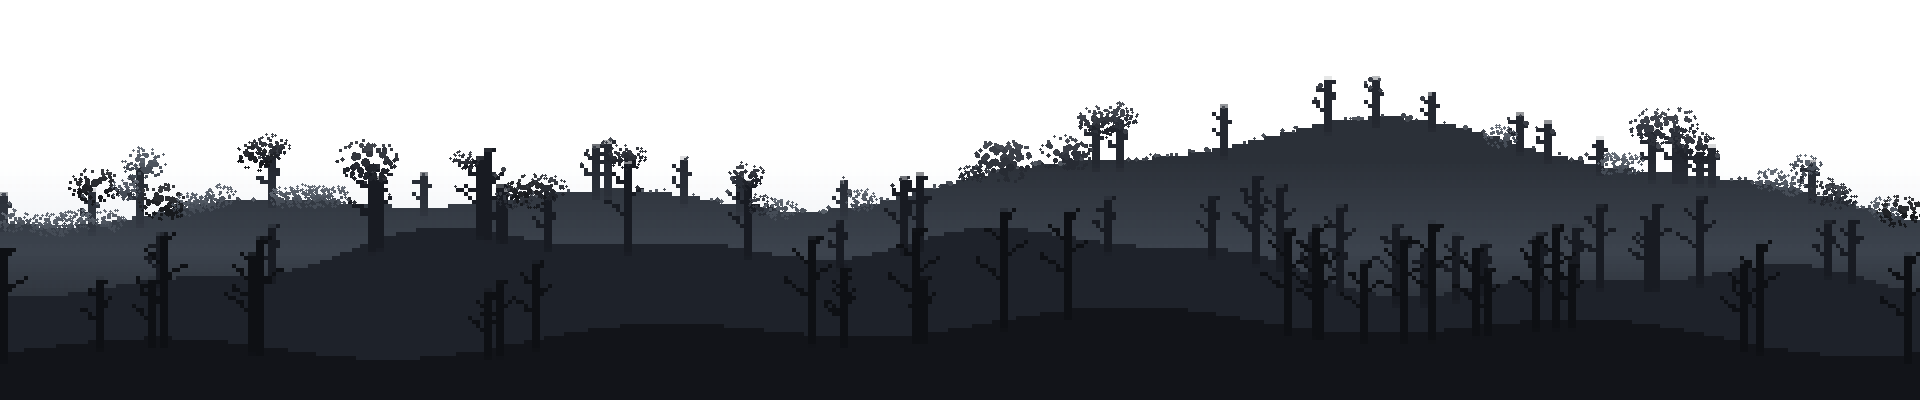
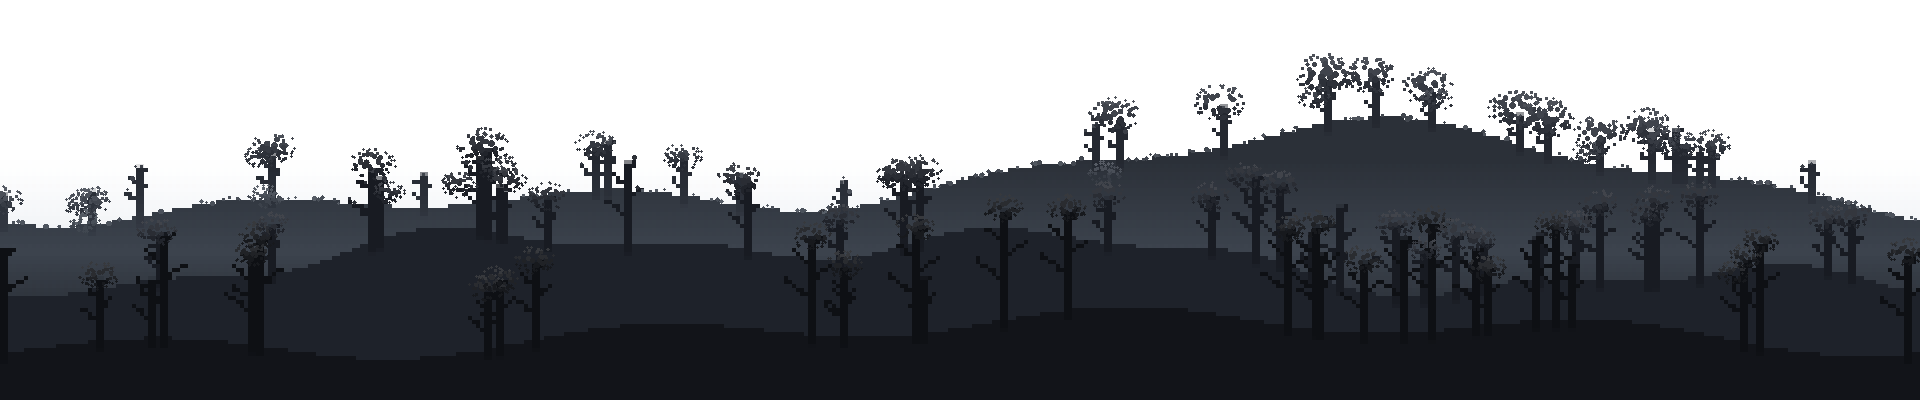
원경 숲: 앞 층 굵은 줄기에도 갓을 얹는다
지난 판(bebdcae)은 열마다 '맨 위 불투명 픽셀' 하나만 봐서, 가까운 줄기
앞을 먼 언덕이 가리는 자리에서 먼 언덕 꼭대기를 집었다. 갓이 줄기에서
떨어져 공중에 뜨고, 화면 아래 절반의 굵은 앞 층 나무는 통째로 맨 장대로
남았다 — 고치기 전보다 나빠졌다.

층은 색으로 갈린다. 원경은 층마다 제 회색을 쓰므로 색을 물으면 짐작할
것이 없다. 두 잣대로 줄기 색을 고른다:
  가로 런 중앙값 <= 18   언덕(24~40px)과 줄기(4~16px)를 가른다
  세로 런 최대 >= 20     언덕의 그라데이션 띠(4~12px)와 줄기(52~116px)

그리고 색마다 따로 훑는다. 한 열을 한 번만 보면 앞 층 줄기 위로 뒤 층
잔가지가 걸친 자리에서 뒤 것을 집어, 가장 어두운 앞 층(14,16,20)이 한
그루도 안 잡힌다. 먼 층 줄기는 세로 그라데이션이라 한 색이 4~8px 밖에
안 이어지므로, 거기는 종전대로 '열의 첫 줄기 색' 을 쓴다(먼 층 앞에는
가릴 것이 없어 그것으로 맞는다). 둘을 합치고 x 10px · 높이 12px 안쪽만
한 그루로 묶는다 — 높이를 안 보면 앞 줄기가 뒤 줄기에 흡수된다.

85그루 · 갓 위로 줄기가 솟는 것 0 · 갓이 줄기에 안 닿는 것 0
꼭대기 y 80~280 으로 세 층에 고루 퍼진다(전에는 앞 층이 0그루였다).

find_trees 주석에 실패한 다섯 가지를 남겨 둔다.

Claude-Session: https://claude.ai/code/session_015bTXkb4q3SzK7wZ8JdbtYP

diff --git a/game/index.html b/game/index.html
@@ -4,7 +4,7 @@
 <meta charset="utf-8">
 <meta name="viewport" content="width=device-width,initial-scale=1">
 <title>Ashfall Chronicles — 별이 잠든 땅</title>
-<link rel="stylesheet" href="css/style.css?v=196">
+<link rel="stylesheet" href="css/style.css?v=197">
 </head>
 <body>
 
@@ -448,19 +448,19 @@
   </div>
 </div>
 
-<script src="js/util.js?v=196"></script>
-<script src="js/data.js?v=196"></script>
-<script src="js/world.js?v=196"></script>
-<script src="js/tileart.js?v=196"></script>
-<script src="js/itemart.js?v=196"></script>
-<script src="js/titlebg.js?v=196"></script>
+<script src="js/util.js?v=197"></script>
+<script src="js/data.js?v=197"></script>
+<script src="js/world.js?v=197"></script>
+<script src="js/tileart.js?v=197"></script>
+<script src="js/itemart.js?v=197"></script>
+<script src="js/titlebg.js?v=197"></script>
 <!-- 매니페스트는 sprites.js 보다 먼저. file:// 에서 fetch 가 막히므로 <script> 로 넣는다 -->
-<script src="assets/sprites-manifest.js?v=196"></script>
-<script src="assets/sprites.js?v=196"></script>
-<script src="js/entity.js?v=196"></script>
-<script src="js/factory.js?v=196"></script>
-<script src="js/ui.js?v=196"></script>
-<script src="js/music.js?v=196"></script>
-<script src="js/game.js?v=196"></script>
+<script src="assets/sprites-manifest.js?v=197"></script>
+<script src="assets/sprites.js?v=197"></script>
+<script src="js/entity.js?v=197"></script>
+<script src="js/factory.js?v=197"></script>
+<script src="js/ui.js?v=197"></script>
+<script src="js/music.js?v=197"></script>
+<script src="js/game.js?v=197"></script>
 </body>
 </html>

diff --git a/tools/mkforestbg.py b/tools/mkforestbg.py
@@ -60,71 +60,145 @@ def lift(c, n):
     return tuple(max(0, min(255, v + n)) for v in c[:3])
 
 
-def find_trees(px, W, H):
-    """원본에서 줄기를 찾아 (가운데 x, 꼭대기 y, 폭, 색) 로 돌려준다.
+def trunk_colors(px, W, H):
+    """줄기 색을 골라낸다 — **가로 런 길이**로 가른다.
 
-    **좁고 긴 세로 획**을 찾는다. 하늘선을 기준으로 삼으면 가까운 층의 나무를
-    통째로 놓친다 — 그 나무들은 뒤의 언덕을 배경으로 서 있어서 하늘선을 안
-    건드리기 때문이다(처음에 그렇게 했다가 먼 나무에만 잎이 달렸다).
-
-    판정: 그 칸이 불투명하고, 15px 아래도 같은 색이며(길다), 좌우 11px 은
-    다른 색이다(좁다). 이 셋을 만족하는 가장 위 칸이 그 줄기의 꼭대기다."""
-    def rgb(x, y):
-        p = px[x, y]
-        return p[:3] if p[3] == 255 else None
-
-    GAP, LONG = 11, 10
-    tops = {}
-    for x in range(GAP, W - GAP):
-        for y in range(0, H - LONG):
-            c = rgb(x, y)
-            if c is None:
+    원경은 층마다 제 회색을 쓴다. 언덕은 가로로 길게 칠해져 있고(런 중앙값
+    24~40px) 줄기는 좁다(4~16px). 이 하나로 둘이 깨끗이 갈린다."""
+    from collections import defaultdict
+    runs, cnt = defaultdict(list), defaultdict(int)
+    for y in range(H):
+        x = 0
+        while x < W:
+            p = px[x, y]
+            if p[3] != 255:
+                x += 1
                 continue
-            if rgb(x, y + LONG) != c:            # 길지 않다 — 잔가지나 언덕
-                continue
-            if rgb(x - GAP, y) == c or rgb(x + GAP, y) == c:
-                continue                          # 넓다 — 언덕이다
-            tops[x] = (y, c)
-            break
-
-    runs = []
-    for x in sorted(tops):
-        if runs and x - runs[-1][-1] <= 4:
-            runs[-1].append(x)
-        else:
-            runs.append([x])
-    def ink_top(x):
-        """그 열에서 **눈에 보일 만큼 칠해진 가장 위 칸.**
-
-        갓을 얹을 자리는 여기다. 위의 판정이 내놓는 y 를 그대로 쓰면 안 된다 —
-        실측하니 53그루 중 42그루가 줄기 중턱(16~76px 아래)에 걸렸고, 거기에
-        갓을 얹으니 **갓 위로 맨 줄기가 삐죽 솟아** 있었다.
-
-        색으로 줄기를 따라 올라가는 것도 안 된다. 원본은 먼 줄기를 **세로
-        그라데이션**으로 그려서(위로 갈수록 밝다: 36,40,48 → 38,42,50 → …)
-        같은 색이 4~8px 밖에 안 이어지고, 게다가 꼭대기 20~50px 은 알파가
-        1~24 로 깔려 있다. 색을 맞추는 어떤 방법도 몇 칸 못 가서 끊긴다.
-        '칠해졌나'만 보는 쪽이 그림이 어떻게 그려졌든 흔들리지 않는다."""
-        for y in range(H):
-            if px[x, y][3] >= 60:
-                return y
-        return H
-
-    trees = []
-    for r in runs:
-        if len(r) > 26:                           # 이만큼 넓으면 나무가 아니다
+            c, x0 = p[:3], x
+            while x < W and px[x, y][3] == 255 and px[x, y][:3] == c:
+                x += 1
+            runs[c].append(x - x0)
+            cnt[c] += x - x0
+    out = []
+    for c, n in cnt.items():
+        if n < 1500:
             continue
-        ty = min(ink_top(x) for x in r)
-        cx = sum(r) // len(r)
-        # 색은 줄기에서 가장 흔한 것으로. 한 점만 찍으면 반투명 가장자리
-        # (RGB 에 아무 값이나 들어 있다)를 집어 갓이 흰색으로 튄다
-        seen = {}
-        for x in r:
-            c = tops[x][1]
-            seen[c] = seen.get(c, 0) + 1
-        col = max(seen, key=seen.get)
-        trees.append((cx, ty, len(r), col))
-    return trees
+        r = sorted(runs[c])
+        if r[len(r) // 2] <= 18:
+            out.append(c)
+    return set(out)
+
+
+def vrun_max(px, W, H, c):
+    """그 색이 세로로 가장 길게 이어지는 길이. 층을 가르는 두 번째 잣대다.
+
+    가로 런으로 언덕을 걸러도 언덕의 **그라데이션 띠** 색들이 남는다(가로로도
+    짧게 끊겨 칠해져 있다). 그것들은 세로로 4~12px 밖에 안 가고, 굵은 줄기는
+    52~116px 를 간다 — 사이가 텅 비어 있어 20 이면 깨끗이 갈린다."""
+    best = 0
+    for x in range(W):
+        y = 0
+        while y < H:
+            if px[x, y][3] == 255 and px[x, y][:3] == c:
+                n = 0
+                while y + n < H and px[x, y + n][3] == 255 and px[x, y + n][:3] == c:
+                    n += 1
+                if n > best:
+                    best = n
+                y += n
+            else:
+                y += 1
+    return best
+
+
+def find_trees(px, W, H):
+    """줄기를 찾아 (가운데 x, 꼭대기 y, 폭, 색) 로 돌려준다.
+
+    판정은 하나뿐이다 — **그 색이 그 열에서 처음 나타나는 칸.**
+    줄기 색은 제 층만 쓰므로, 뒤에 무엇이 그려져 있든 헷갈릴 수 없다.
+    그래서 색마다 따로 훑는다. 한 열에서 '줄기 색 아무거나 첫 칸' 을 집으면
+    안 된다 — 앞 층 줄기 위로 뒤 층 잔가지가 걸친 자리에서 뒤 것을 집어,
+    앞 층 큰 나무 전체가 통째로 빠진다(아래 5번).
+
+    ─ 여기까지 오는 데 다섯 번 틀렸다. 남겨 둔다, 같은 데 또 빠지지 않게:
+      1. 넓은 창의 **최댓값**을 언덕선으로 삼음 → 언덕 봉우리 전체가 '솟은 것'
+         으로 걸려 폭 80px 짜리 갓이 능선에 얹혔다.
+      2. **중앙값**으로 고침 → 하늘선을 안 건드리는 가까운 층 나무를 통째로
+         놓쳤다(그 나무들은 뒤 언덕을 배경으로 서 있다).
+      3. **좁고 긴 세로 획** 판정 → 언덕 가장자리를 줄기로 오인해서 ty 가 거의
+         전부 244 로 같았고, 갓이 줄기 중턱에 얹혀 맨 줄기가 위로 솟았다.
+      4. 그 열의 **알파 60 이상 첫 칸** → 가까운 줄기 앞을 먼 언덕이 가리는
+         자리에서 먼 언덕의 꼭대기를 집어, 갓이 줄기에서 떨어져 공중에 떴다.
+      5. 열마다 **줄기 색 아무거나 첫 칸** → 색은 맞게 봤지만 열마다 한 번만
+         봐서, 앞 층 어두운 줄기(14,16,20)가 한 그루도 안 잡혔다. 화면 아래
+         절반이 통째로 맨 장대였다.
+      1~4 는 '평평하게 합쳐진 그림에서 어느 것이 어느 층인지'를 짐작하려 한
+      탓이고, 5 는 색으로 물어 놓고 층마다 묻지 않은 탓이다."""
+    cols = trunk_colors(px, W, H)
+    trees = []
+
+    def group(hits, col):
+        """꼭대기가 붙어 가는 열끼리 한 그루로 묶는다. x 가 붙어 있다는 것만
+           보면 1900열이 한 덩어리가 되어 폭 제한에 다 걸린다(0그루가 나왔다)."""
+        runs = []
+        for x in sorted(hits):
+            if runs and x - runs[-1][-1] <= 4 and abs(hits[x][0] - hits[runs[-1][-1]][0]) <= 8:
+                runs[-1].append(x)
+            else:
+                runs.append([x])
+        for r in runs:
+            if len(r) > 26:                      # 이만큼 넓으면 나무가 아니다
+                continue
+            ty = min(hits[x][0] for x in r)
+            c = col or max(set(hits[x][1] for x in r),
+                           key=lambda k: sum(1 for x in r if hits[x][1] == k))
+            trees.append((sum(r) // len(r), ty, len(r), c))
+
+    # ── 앞 층: 한 색이 세로로 길게 이어지는 굵은 줄기.
+    # 색마다 따로 훑는다. '줄기 색 아무거나 첫 칸' 으로 한 열을 한 번만 보면,
+    # 앞 줄기 위로 뒤 언덕의 그라데이션 색이 걸친 자리에서 뒤 것을 집어
+    # 가장 어두운 앞 층(14,16,20)이 한 그루도 안 잡힌다.
+    for c in cols:
+        if vrun_max(px, W, H, c) < 20:
+            continue
+        hits = {}
+        for x in range(W):
+            for y in range(H):
+                p = px[x, y]
+                if p[3] != 255 or p[:3] != c:
+                    continue
+                n = 0
+                while y + n < H and px[x, y + n][3] == 255 and px[x, y + n][:3] == c:
+                    n += 1
+                if n >= 16:                      # 언덕에 박힌 점 하나를 거른다
+                    hits[x] = (y, c)
+                break
+        group(hits, c)
+
+    # ── 먼 층: 줄기가 세로 그라데이션으로 칠해져 있어 한 색이 4~8px 밖에
+    # 안 이어진다. 여기서는 층을 색 하나로 못 가르므로, 열마다 줄기 색이
+    # 처음 나오는 칸을 쓴다(먼 층 앞에는 가릴 것이 없어 이걸로 맞는다).
+    hits = {}
+    for x in range(W):
+        for y in range(H):
+            p = px[x, y]
+            if p[3] == 255 and p[:3] in cols:
+                hits[x] = (y, p[:3])
+                break
+    group(hits, None)
+
+    # 그라데이션으로 그려진 먼 줄기는 색이 여러 개라 여러 그루로 잡힌다.
+    # 가까이 붙고 **높이도 비슷한** 것만 묶는다 — 높이를 안 보면 앞 줄기가
+    # 그 뒤 먼 줄기에 흡수되어 갓이 저 위 먼 층에 얹힌다.
+    trees.sort()
+    merged = []
+    for t in trees:
+        if merged and t[0] - merged[-1][0] <= 10 and abs(t[1] - merged[-1][1]) <= 12:
+            a = merged[-1]
+            merged[-1] = (a[0], min(a[1], t[1]), max(a[2], t[2]), a[3] if a[1] <= t[1] else t[3])
+        else:
+            merged.append(t)
+    return merged
 
 
 def canopy(im, px, cx, ty, wide, col, rng, scale, clumps, ragged):
